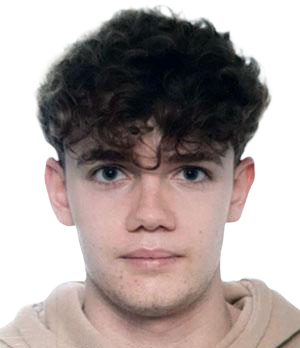
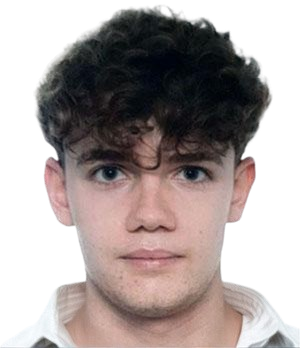
feat: improve and update profiles

diff --git a/src/components/AboutUs.js b/src/components/AboutUs.js
@@ -4,21 +4,21 @@ import "../styles/AboutUs.css";
 
 
 const teamMembers = [
-  { name: "Hugo Angulo Borrego", role: "Desarrollador Full-Stack", image: "/team/hugo.png", hobbies: "Amante de la tecnología y los gatos." },
-  { name: "Álvaro Chico Castellano", role: "Desarrollador Full-Stack", image: "/team/alvaro.png", hobbies: "Apasionado de la ingeniería software e interesado en la inteligencia artificial." },
-  { name: "Rafael Duque Colete", role: "Desarrollador Full-Stack", image: "/team/rafael.png", hobbies: "Le encanta el ciclismo y la robótica." },
-  { name: "Daniel Galván Cancio", role: "Desarrollador Full-Stack", image: "/team/daniel.png", hobbies: "Apasionado de nuevos retos tecnológicos." },
-  { name: "Juan García Carballo", role: "Desarrollador Full-Stack", image: "/team/juan.png", hobbies: "Fan de la música rock y los escape rooms." },
-  { name: "Ángel García Escudero", role: "Desarrollador Full-Stack", image: "/team/angel.png", hobbies: "Apasionado del cine y la inteligencia artificial." },
-  { name: "Andrés Francisco García Rivero", role: "Desarrollador Full-Stack", image: "/team/andres.png", hobbies: "Jugador de ajedrez y aficionado a la astronomía." },
-  { name: "David Guillén Fernández", role: "Desarrollador Full-Stack", image: "/team/david.png", hobbies: "Apasionado del deporte y la programación." },
-  { name: "Lucas Manuel Herencia Solís", role: "Desarrollador Full-Stack", image: "/team/lucas.png", hobbies: "Amante de Java." },
-  { name: "Jaime Linares Barrera", role: "Desarrollador Full-Stack", image: "/team/jaime.png", hobbies: "Fanático del fútbol y apasionado de la inteligencia artificial." },
-  { name: "Jorge Muñoz Rodríguez", role: "Desarrollador Full-Stack", image: "/team/jorge.png", hobbies: "Le encanta el baloncesto y los drones." },
-  { name: "Alejandro Pérez Santiago", role: "Desarrollador Full-Stack", image: "/team/alejandro.png", hobbies: "Aficionado a la escalada y la programación creativa." },
-  { name: "Javier Rodríguez Reina", role: "Desarrollador Full-Stack", image: "/team/javier.png", hobbies: "Le gusta la literatura y los juegos de estrategia." },
-  { name: "Isaac Solís Padilla", role: "Desarrollador Full-Stack", image: "/team/isaac.png", hobbies: "Fan del automovilismo y los eSports." },
-  { name: "Karim Youssafi Benichikh", role: "Desarrollador Full-Stack", image: "/team/karim.png", hobbies: "Interesado en el arte digital y la inteligencia artificial." },
+  { name: "Hugo Angulo Borrego", role: "Desarrollador Frontend", image: "/team/hugo.png", hobbies: "Amante de la tecnología y los gatos." },
+  { name: "Álvaro Chico Castellano", role: "Desarrollador Frontend y Especialista en Marketing", image: "/team/alvaro.png", hobbies: "Apasionado de la ingeniería software e interesado en la inteligencia artificial." },
+  { name: "Rafael Duque Colete", role: "Desarrollador Frontend", image: "/team/rafael.png", hobbies: "Amante del fútbol, el deporte y las buenas series." },
+  { name: "Daniel Galván Cancio", role: "Coordinador de Marketing y Desarrollador Frontend", image: "/team/daniel.png", hobbies: "Apasionado de nuevos retos tecnológicos." },
+  { name: "Juan García Carballo", role: "Coordinador de Frontend y Desarrollador Full-Stack", image: "/team/juan.png", hobbies: "Amante de los libros y el cine." },
+  { name: "Ángel García Escudero", role: "DevRel y Desarrollador Backend", image: "/team/angel.png", hobbies: "Apasionado por la aviación, el deporte y mundo del motorsport." },
+  { name: "Andrés Francisco García Rivero", role: "Desarrollador Frontend", image: "/team/andres.png", hobbies: "Apasionado por el motorsport y la electrónica." },
+  { name: "David Guillén Fernández", role: "Desarrollador Backend", image: "/team/david.png", hobbies: "Apasionado del deporte y la programación." },
+  { name: "Lucas Manuel Herencia Solís", role: "Desarrollador Backend", image: "/team/lucas.png", hobbies: "Amante de Java." },
+  { name: "Jaime Linares Barrera", role: "Coordinador de Frontend y Desarrollador Frontend", image: "/team/jaime.png", hobbies: "Fanático del fútbol y apasionado de la inteligencia artificial." },
+  { name: "Jorge Muñoz Rodríguez", role: "Coordinador de Backend y Desarrollador DevOps", image: "/team/jorge.png", hobbies: "Apasionado por la tecnología y los coches." },
+  { name: "Alejandro Pérez Santiago", role: "Desarrollador DevOps", image: "/team/alejandro.png", hobbies: "Apasionado por la tecnología, siempre enfocado en la mejora continua y en afrontar nuevos retos." },
+  { name: "Javier Rodríguez Reina", role: "Desarrollador Backend", image: "/team/javier.png", hobbies: "Le gusta la literatura y los juegos de estrategia." },
+  { name: "Isaac Solís Padilla", role: "Desarrollador Backend", image: "/team/isaac.png", hobbies: "Amante de los videojuegos." },
+  { name: "Karim Youssafi Benichikh", role: "Desarrollador Frontend y Especialista en Marketing", image: "/team/karim.png", hobbies: "Amante de la tecnología y la inteligencia artificial." },
 ];
 
 
